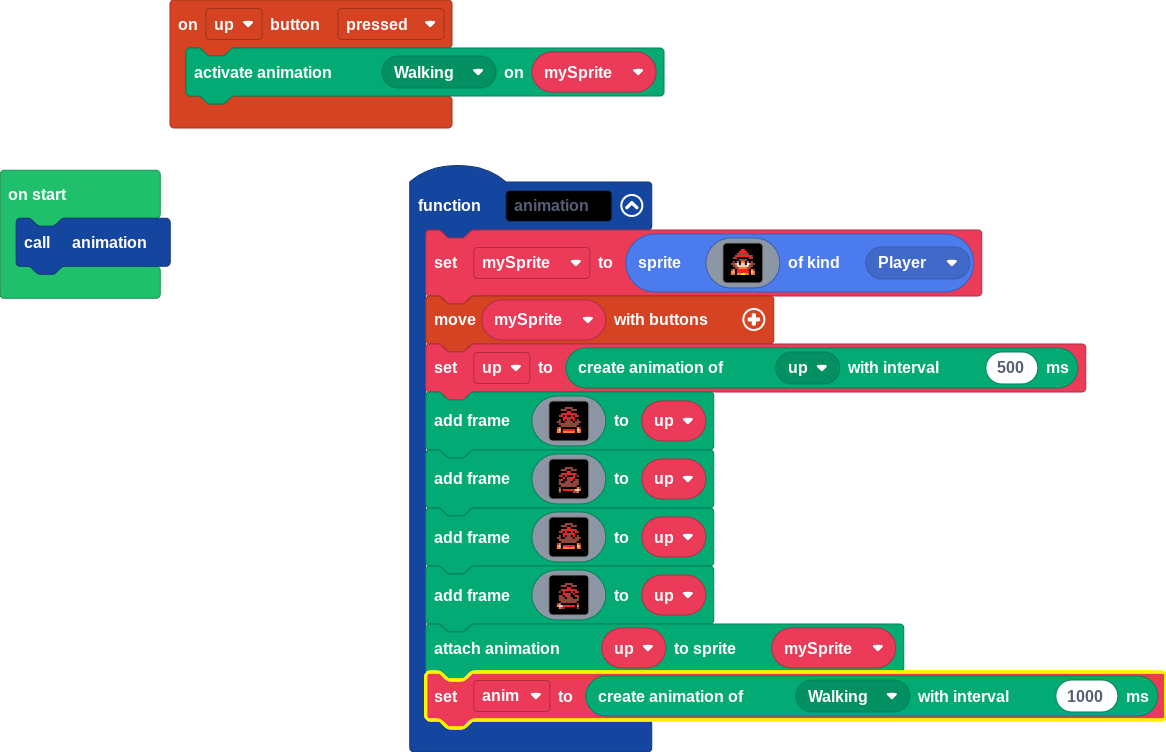
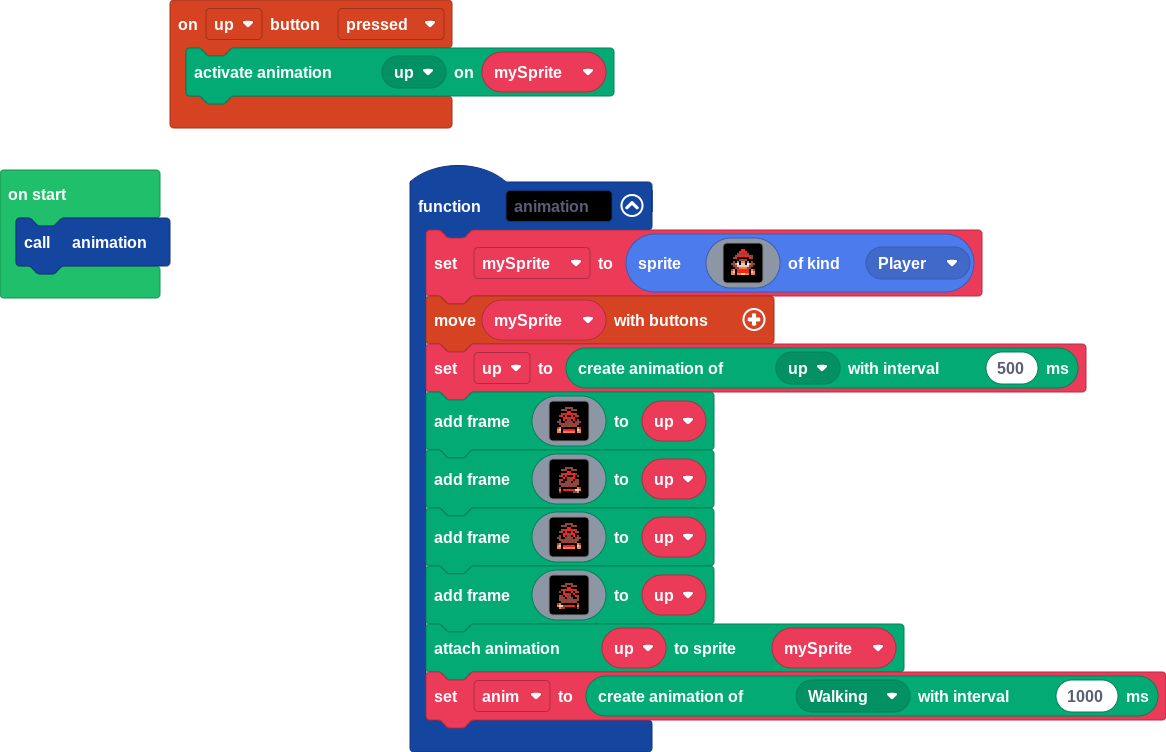
Update main.blocks, main.ts

diff --git a/main.ts b/main.ts
@@ -5,7 +5,7 @@ enum ActionKind {
     up
 }
 controller.up.onEvent(ControllerButtonEvent.Pressed, function () {
-    animation.setAction(mySprite, ActionKind.Walking)
+    animation.setAction(mySprite, ActionKind.up)
 })
 function animation2 () {
     mySprite = sprites.create(img`
